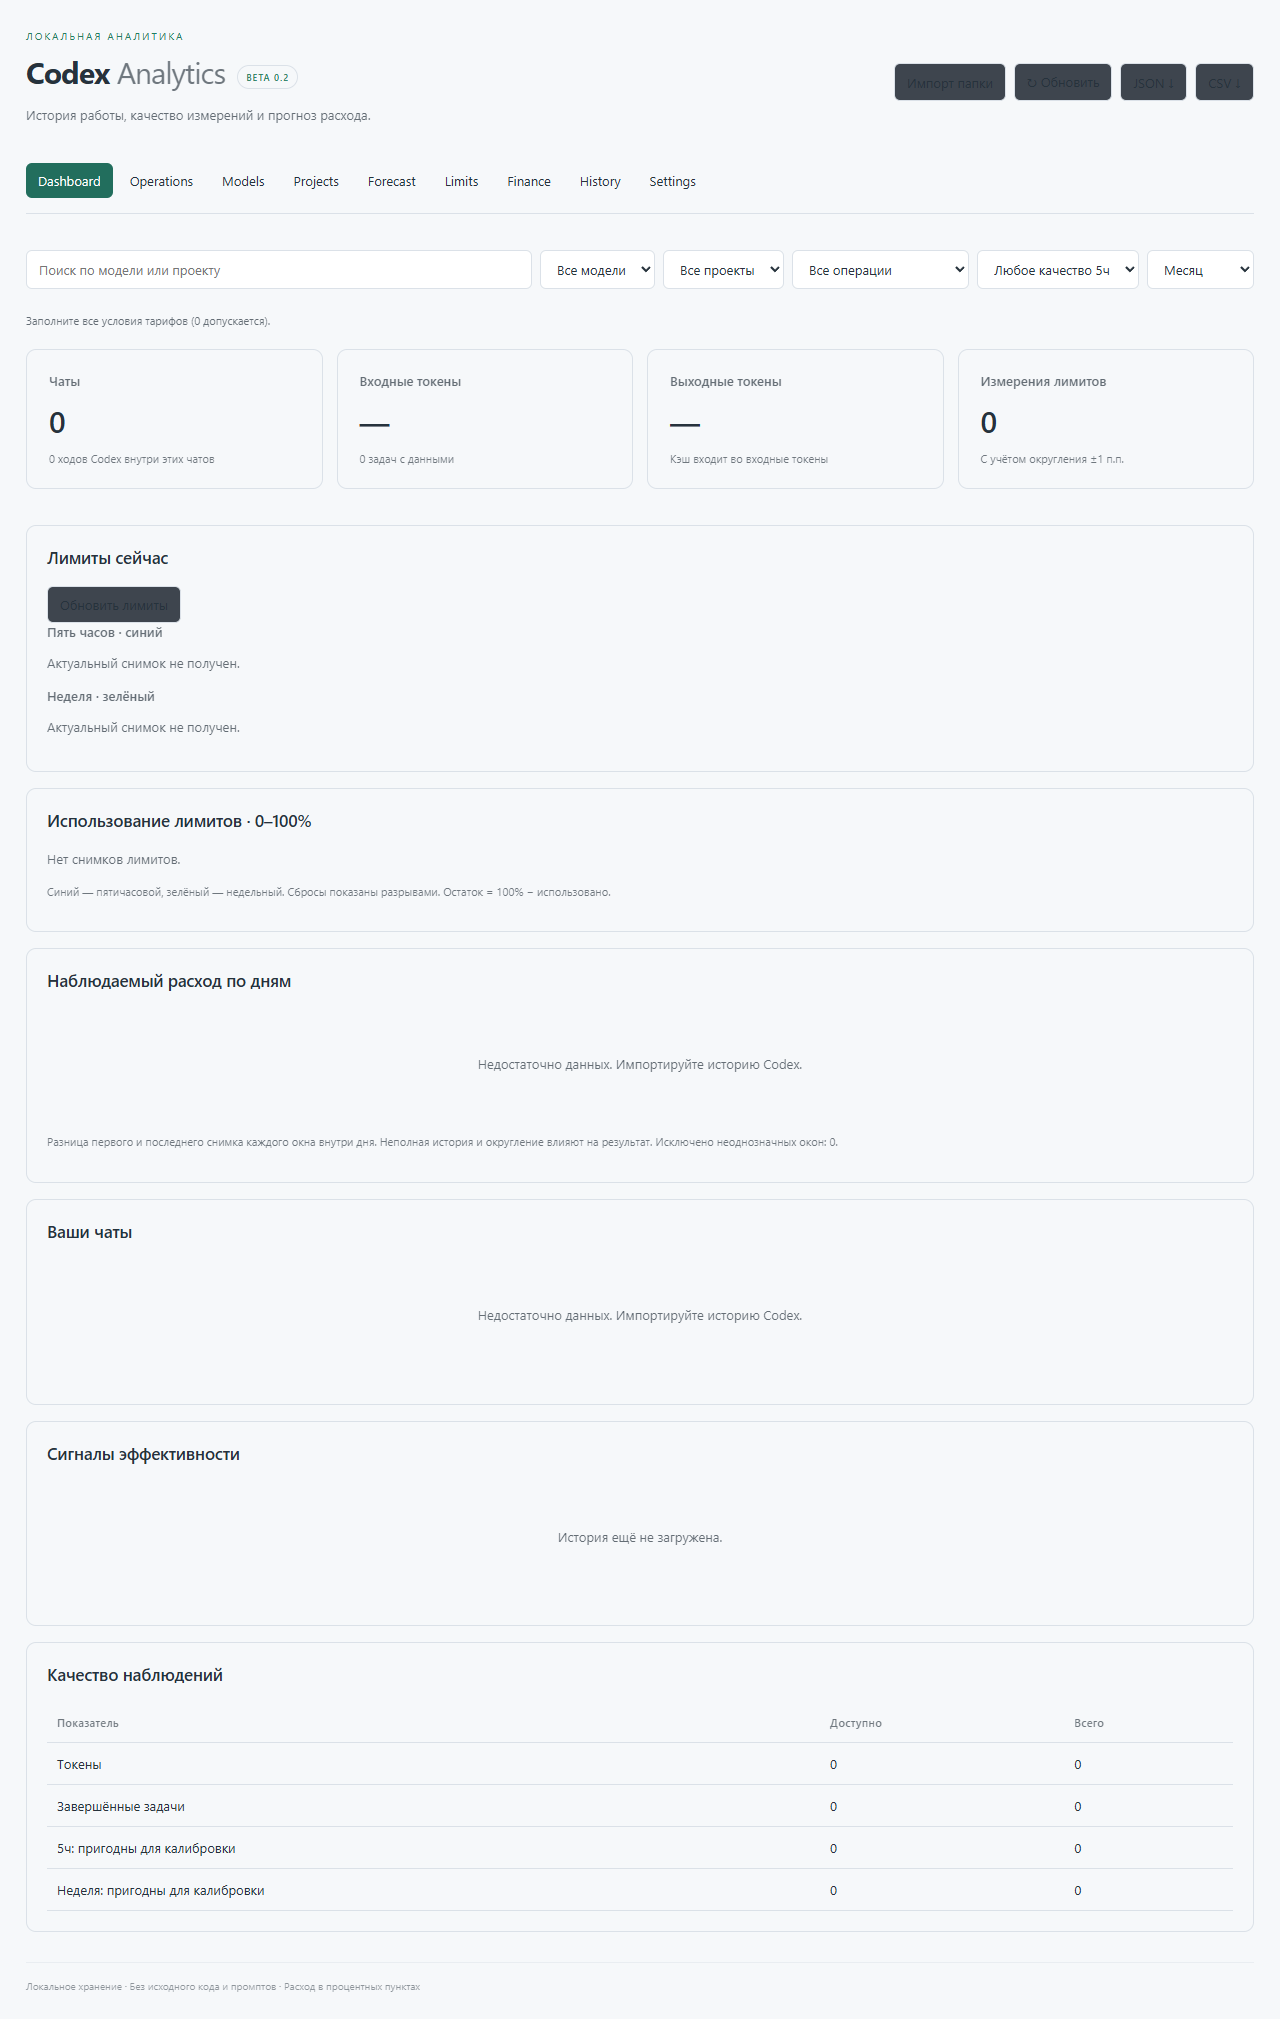
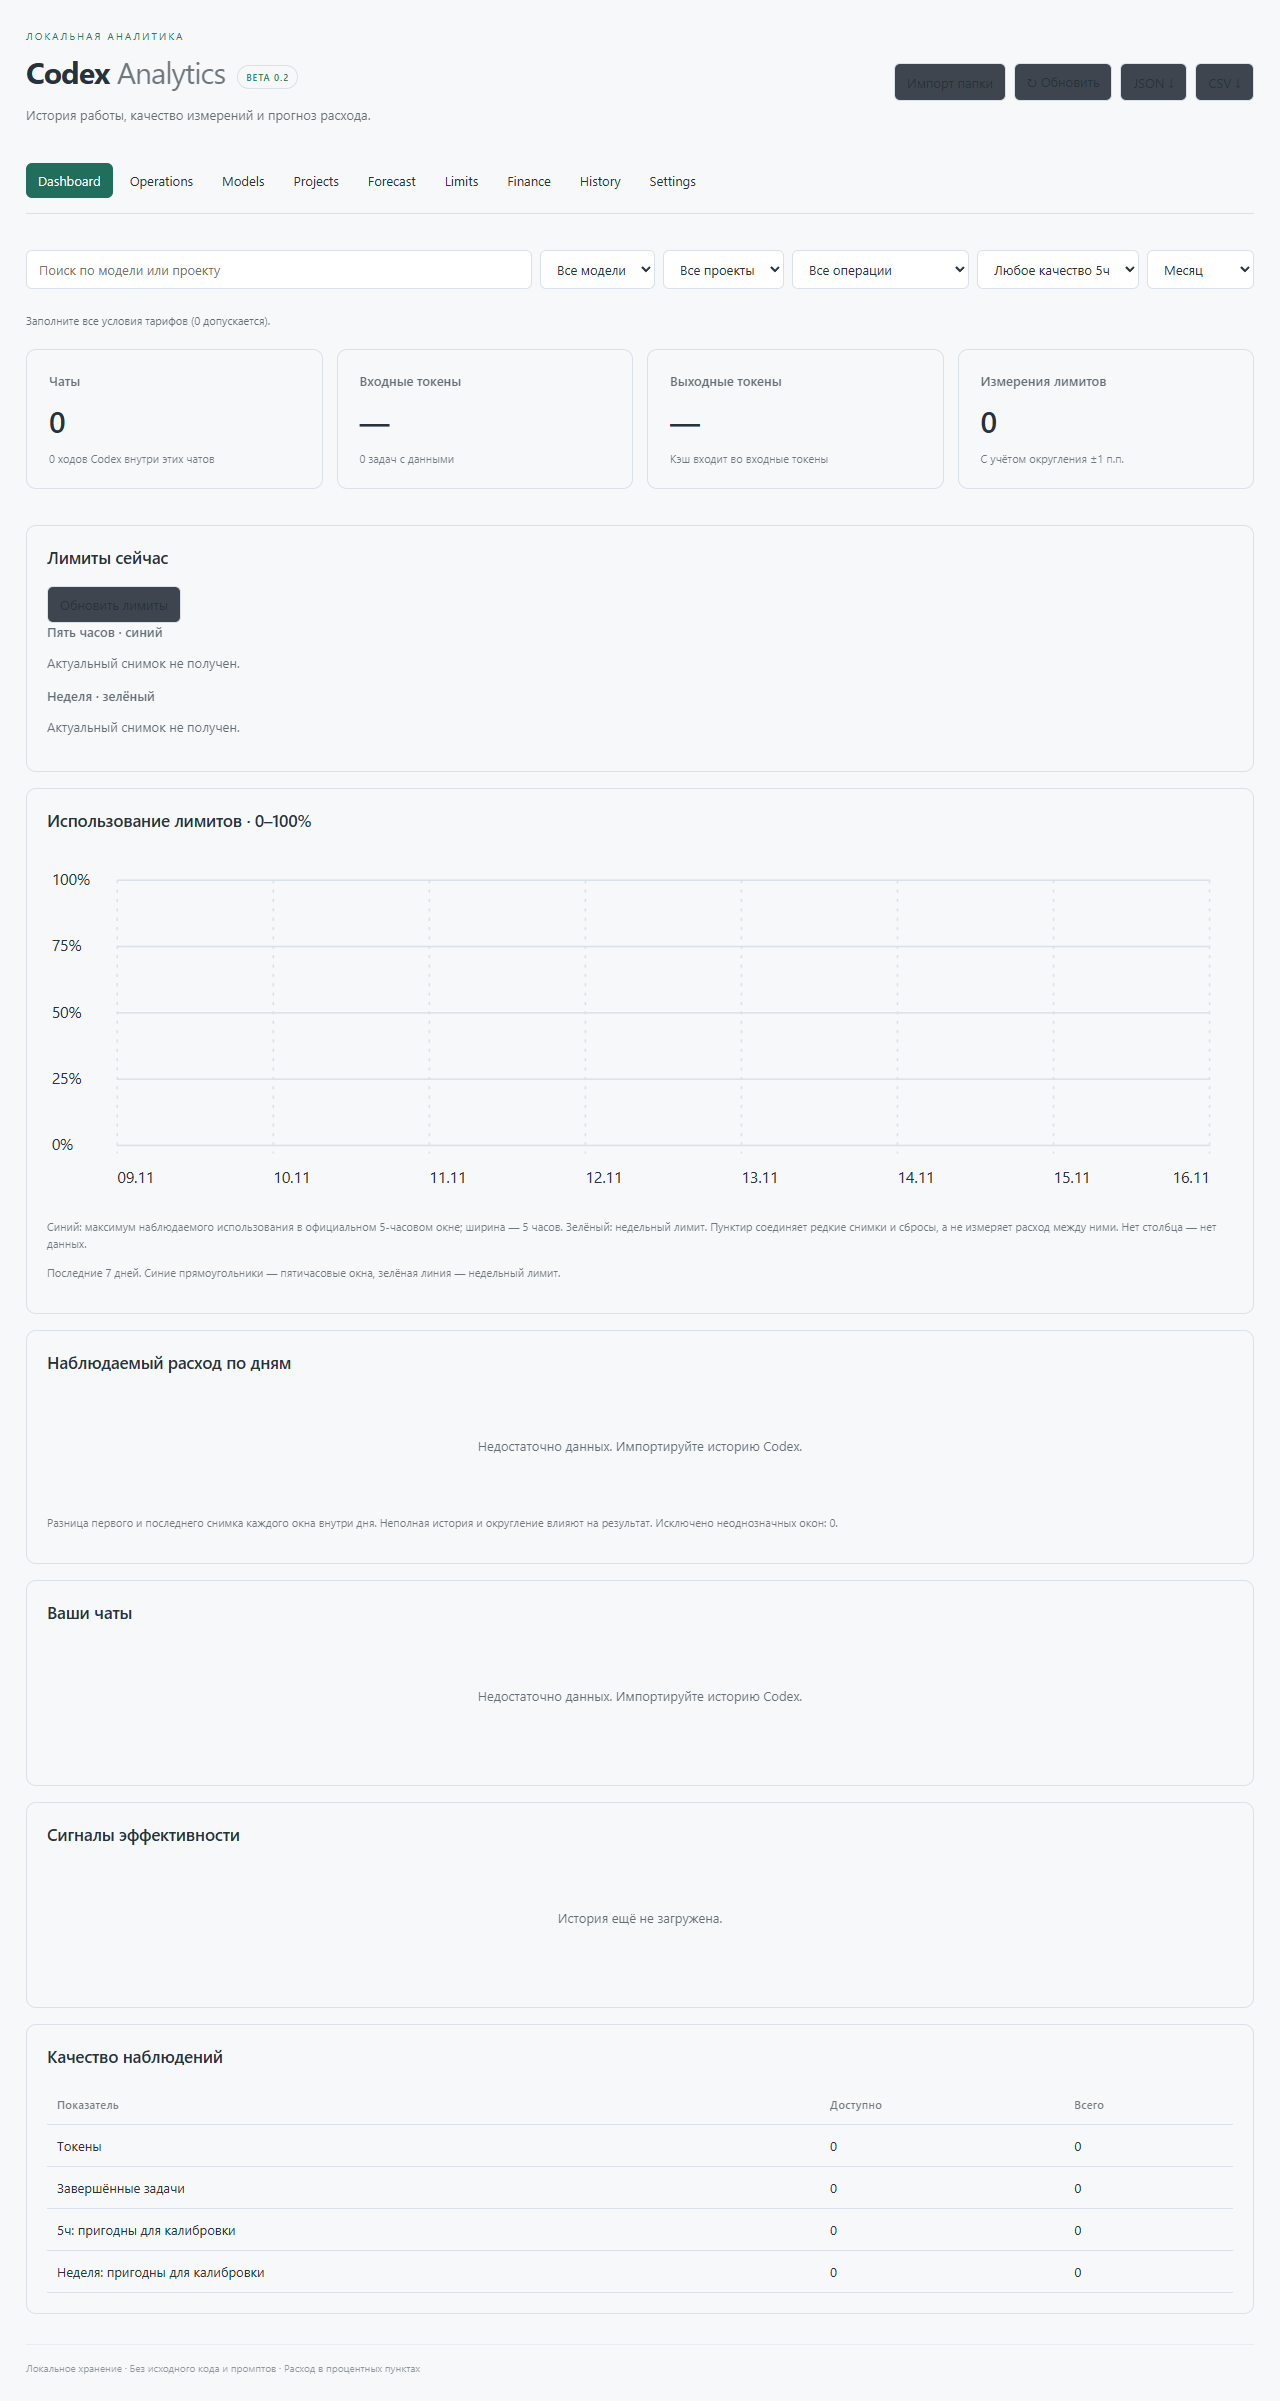
Show seven-day quota chart with five-hour bars

diff --git a/media/app.js b/media/app.js
@@ -17,7 +17,7 @@ function select(parent,title,items){const label=el('label',title),s=el('select')
 function render(){const root=$('main');root.replaceChildren();$('nav').replaceChildren(...sections.map(s=>{const b=button(s,()=>{section=s;render();});if(s===section)b.className='active';return b;}));const a=filtered();
  if(section==='Dashboard'){
   cards([['Чаты',fmt(new Set(a.map(t=>t.session)).size),`${a.length} ходов Codex внутри этих чатов`],['Входные токены',fmt(a.some(t=>t.tokens)?a.reduce((s,t)=>s+(t.tokens?.input??0),0):undefined),`${a.filter(t=>t.tokens).length} задач с данными`],['Выходные токены',fmt(a.some(t=>t.tokens)?a.reduce((s,t)=>s+(t.tokens?.output??0),0):undefined),'Кэш входит во входные токены'],['Измерения лимитов',fmt(a.filter(t=>t.five?.quality==='bounded').length),'С учётом округления ±1 п.п.']]);
-  const limitsPanel=panel('Лимиты сейчас');limitsPanel.append(button('Обновить лимиты',()=>send('limits')));const fresh=live?.limits&&Date.now()-live.limits.at<300000;for(const [key,title] of [['five','Пять часов · синий'],['week','Неделя · зелёный']]){const w=live?.limits?.[key];limitsPanel.append(el('h3',title),el('p',fresh&&w&&w.reset*1000>Date.now()?fmt(w.used)+'% использовано · '+fmt(100-w.used)+'% осталось · Сброс: '+new Date(w.reset*1000).toLocaleString():'Актуальный снимок не получен.'));}const samples=a.flatMap(t=>[t.before,t.after].filter(Boolean));if(live?.limits)samples.push(live.limits);const p=panel('Использование лимитов · 0–100%');quotaChart(p,samples);p.append(el('p','Синий — пятичасовой, зелёный — недельный. Сбросы показаны разрывами. Остаток = 100% − использовано.','hint'));dailyUsage(panel('Наблюдаемый расход по дням'),samples);const chats=panel('Ваши чаты');const groups=new Map();a.forEach(t=>{if(!groups.has(t.session))groups.set(t.session,[]);groups.get(t.session).push(t);});table(chats,['Название','Ходов Codex'],[...groups.values()].map(v=>[v.find(t=>t.title)?.title||'Чат '+v[0].session.slice(0,8),v.length]));
+  const limitsPanel=panel('Лимиты сейчас');limitsPanel.append(button('Обновить лимиты',()=>send('limits')));const fresh=live?.limits&&Date.now()-live.limits.at<300000;for(const [key,title] of [['five','Пять часов · синий'],['week','Неделя · зелёный']]){const w=live?.limits?.[key];limitsPanel.append(el('h3',title),el('p',fresh&&w&&w.reset*1000>Date.now()?fmt(w.used)+'% использовано · '+fmt(100-w.used)+'% осталось · Сброс: '+new Date(w.reset*1000).toLocaleString():'Актуальный снимок не получен.'));}const samples=a.flatMap(t=>[t.before,t.after].filter(Boolean));if(live?.limits)samples.push(live.limits);const p=panel('Использование лимитов · 0–100%');quotaChart(p,samples);p.append(el('p','Последние 7 дней. Синие прямоугольники — пятичасовые окна, зелёная линия — недельный лимит.','hint'));dailyUsage(panel('Наблюдаемый расход по дням'),samples);const chats=panel('Ваши чаты');const groups=new Map();a.forEach(t=>{if(!groups.has(t.session))groups.set(t.session,[]);groups.get(t.session).push(t);});table(chats,['Название','Ходов Codex'],[...groups.values()].map(v=>[v.find(t=>t.title)?.title||'Чат '+v[0].session.slice(0,8),v.length]));
   const n=panel('Сигналы эффективности');const rows=a.flatMap(t=>{const r=[];if(t.repeatedReads)r.push([t.id.slice(-16),`Повторных чтений: ${t.repeatedReads}`]);if(t.repeatedTests)r.push([t.id.slice(-16),`Повторных тестов: ${t.repeatedTests}`]);if(t.failures>=3)r.push([t.id.slice(-16),`Неудачных вызовов: ${t.failures}`]);return r;});if(rows.length)table(n,['Задача','Наблюдение'],rows);else n.append(el('p',a.length?'В выбранных задачах повторных действий и частых ошибок не обнаружено.':'История ещё не загружена.','empty'));const quality=panel('Качество наблюдений');table(quality,['Показатель','Доступно','Всего'],[['Токены',a.filter(t=>t.tokens).length,a.length],['Завершённые задачи',a.filter(t=>t.complete).length,a.length],['5ч: пригодны для калибровки',a.filter(t=>t.five?.quality==='bounded').length,a.length],['Неделя: пригодны для калибровки',a.filter(t=>t.week?.quality==='bounded').length,a.length]]);
  }else if(['Models','Projects','Operations'].includes(section)){
   const key=section==='Models'?'model':section==='Projects'?'project':'categories';const groups=new Map();a.forEach(t=>{const k=key==='categories'?(t.categories.length===1?(labels[t.categories[0]]??t.categories[0]):'Смешанная / не определена'):t[key];if(!groups.has(k))groups.set(k,[]);groups.get(k).push(t);});
@@ -53,7 +53,19 @@ function chart(p,a){
  data.forEach(([day,n],i)=>{const x=38+i*width;const r=shape('rect',{x,y:155-n/max*130,width:Math.max(2,width-7),height:n/max*130,rx:3,fill:'var(--vscode-charts-green,#69d7ad)'});const title=document.createElementNS(ns,'title');title.textContent=day+': '+n+' задач';r.append(title);if(i%Math.max(1,Math.ceil(data.length/7))===0)shape('text',{x:x+width/2,y:177,fill:'currentColor','font-size':10,'text-anchor':'middle'},day.slice(5).split('-').reverse().join('.'));});
  const wrap=el('div',undefined,'chart');wrap.append(svg);p.append(wrap);
 }
-function quotaChart(p,samples){const unique=[...new Map(samples.map(s=>[s.at,s])).values()].sort((a,b)=>a.at-b.at);if(!unique.length){p.append(el('p','Нет снимков лимитов.'));return;}const ns='http://www.w3.org/2000/svg',svg=document.createElementNS(ns,'svg');svg.setAttribute('viewBox','0 0 620 150');svg.setAttribute('role','img');svg.setAttribute('aria-label','Расход пятичасового и недельного лимитов');for(const percent of [0,25,50,75,100]){const y=140-percent*1.3;const label=document.createElementNS(ns,'text');label.setAttribute('x','0');label.setAttribute('y',String(y+3));label.setAttribute('fill','currentColor');label.setAttribute('font-size','9');label.textContent=percent+'%';svg.append(label);const grid=document.createElementNS(ns,'line');for(const [k,v] of Object.entries({x1:35,x2:615,y1:y,y2:y,stroke:'var(--vscode-panel-border,#303945)'}))grid.setAttribute(k,String(v));svg.append(grid);}const start=unique[0].at,range=Math.max(1,unique.at(-1).at-start);for(const [key,color] of [['five','#4c9aff'],['week','#69d7ad']]){let prev;for(const s of unique){const w=s[key];if(!w){prev=undefined;continue;}const x=(s.at-start)/range*570+40,y=140-w.used*1.3;if(prev&&prev.reset===w.reset&&prev.bucket===w.bucket&&w.used>=prev.used){const line=document.createElementNS(ns,'line');Object.entries({x1:prev.x,y1:prev.y,x2:x,y2:y,stroke:color,'stroke-width':2}).forEach(([k,v])=>line.setAttribute(k,String(v)));svg.append(line);}const c=document.createElementNS(ns,'circle');c.setAttribute('cx',x);c.setAttribute('cy',y);c.setAttribute('r','3');c.setAttribute('fill',color);const title=document.createElementNS(ns,'title');title.textContent=`${key==='five'?'Пять часов':'Неделя'}: ${w.used}% использовано, ${100-w.used}% осталось · ${new Date(s.at).toLocaleString()}`;c.append(title);svg.append(c);prev={x,y,reset:w.reset,bucket:w.bucket,used:w.used};}}const wrap=el('div',undefined,'chart');wrap.append(svg);p.append(wrap);}
+function quotaChart(p,samples){
+ const end=Date.now(),start=end-7*86400000,hour=3600000,ns='http://www.w3.org/2000/svg';
+ const sorted=[...new Map(samples.filter(s=>Number.isFinite(s.at)&&s.at<=end).map(s=>[s.at,s])).values()].sort((a,b)=>a.at-b.at);
+ const svg=document.createElementNS(ns,'svg');svg.setAttribute('viewBox','0 0 760 230');svg.setAttribute('role','img');svg.setAttribute('aria-label','Семь дней: синие пятичасовые окна и непрерывная зелёная линия недельного лимита');
+ const draw=(tag,attrs,title)=>{const e=document.createElementNS(ns,tag);for(const [k,v] of Object.entries(attrs))e.setAttribute(k,String(v));if(title){const t=document.createElementNS(ns,'title');t.textContent=title;e.append(t);}svg.append(e);return e;};
+ const x=at=>45+(Math.max(start,Math.min(end,at))-start)/(end-start)*700,y=used=>190-Math.max(0,Math.min(100,used))*1.7;
+ for(const percent of [0,25,50,75,100]){draw('line',{x1:45,x2:745,y1:y(percent),y2:y(percent),stroke:'var(--vscode-panel-border,#303945)'});const t=draw('text',{x:3,y:y(percent)+3,fill:'currentColor','font-size':10});t.textContent=percent+'%';}
+ const windows=new Map();for(const s of sorted){const w=s.five;if(w&&w.minutes===300&&w.reset*1000>start&&w.reset*1000-5*hour<end){const id=w.bucket+':'+w.reset;const old=windows.get(id);if(!old||w.used>old.used)windows.set(id,{...w,at:s.at});}}
+ for(const w of windows.values()){const left=x(w.reset*1000-5*hour),right=x(w.reset*1000);draw('rect',{x:left+1,y:y(w.used),width:Math.max(1,right-left-2),height:190-y(w.used),fill:'#4c9aff','fill-opacity':.65},'Пятичасовое окно: '+new Date(w.reset*1000-5*hour).toLocaleString()+' — '+new Date(w.reset*1000).toLocaleString()+' · Максимальное наблюдаемое использование '+fmt(w.used)+'%');}
+ const weekly=sorted.filter(s=>s.week);let prev;for(const sample of weekly){if(sample.at<start){prev=sample;continue;}const w=sample.week;if(prev){const unknown=sample.at-prev.at>10*60000||prev.week.reset!==w.reset||prev.week.bucket!==w.bucket;draw('line',{x1:x(prev.at),y1:y(prev.week.used),x2:x(sample.at),y2:y(w.used),stroke:'#69d7ad','stroke-width':2.5,...(unknown?{'stroke-dasharray':'5 4'}:{})});}draw('circle',{cx:x(sample.at),cy:y(w.used),r:2.5,fill:'#69d7ad'},new Date(sample.at).toLocaleString()+': '+fmt(w.used)+'% недельного лимита');prev=sample;}
+ for(let i=0;i<=7;i++){const at=start+i*86400000;draw('line',{x1:x(at),x2:x(at),y1:20,y2:195,stroke:'var(--vscode-panel-border,#303945)','stroke-dasharray':'2 4'});const t=draw('text',{x:x(at),y:214,fill:'currentColor','font-size':10,'text-anchor':i===7?'end':'start'});t.textContent=new Date(at).toLocaleDateString(undefined,{day:'2-digit',month:'2-digit'});}
+ const wrap=el('div',undefined,'quota-chart');wrap.append(svg);p.append(wrap,el('p','Синий: максимум наблюдаемого использования в официальном 5-часовом окне; ширина — 5 часов. Зелёный: недельный лимит. Пунктир соединяет редкие снимки и сбросы, а не измеряет расход между ними. Нет столбца — нет данных.','hint'));
+}
 window.addEventListener('message',({data:m})=>{if(m.type==='data'){tasks=m.tasks;$('status').textContent=m.status;for(const [id,key,label] of [['model','model','Все модели'],['project','project','Все проекты']]){const s=$(id),v=restoreLists?(saved.filters?.[id]||s.value):s.value;s.replaceChildren();const o=el('option',label);o.value='';s.append(o);[...new Set(tasks.map(t=>t[key]))].sort().forEach(x=>{const o=el('option',x);o.value=x;s.append(o);});s.value=v;}render();dataLoaded=true;restoreLists=false;}if(m.type==='limits'){live=m.value;$('status').textContent='Лимиты обновлены';render();}if(m.type==='error'){$('status').textContent=m.message;$('status').className='error';}if(m.type==='forecast'&&section==='Forecast'&&$('result')){const r=$('result');r.replaceChildren();table(r,['Показатель','n','Медиана','P10–P90','Поместится','Похожих задач'],Object.entries(m.value).filter(([k])=>!['notes','validation'].includes(k)).map(([k,v])=>[k,v.n,v.median===undefined?v.status:fmt(v.median),v.interval?.map(fmt).join(' – ')??'—',v.fit===undefined?'—':`${fmt(v.fit*100)}%${v.fitInterval?' ('+v.fitInterval.map(x=>fmt(x*100)).join('–')+'%)':''}`,fmt(v.tasks)]));if(m.value.validation){r.append(el('h3','Проверка на более поздних задачах'));table(r,['Лимит','Проверено','Средняя ошибка, п.п.','Попадание в диапазон'],Object.entries(m.value.validation).map(([key,v])=>[key,v.n,fmt(v.mae),v.coverage===undefined?'—':fmt(v.coverage*100)+'%']));}m.value.notes.forEach(n=>r.append(el('p',n,'hint')));}if(m.type==='finance'&&section==='Finance'&&$('result')){$('result').replaceChildren();table($('result'),['Сценарий','Месячная стоимость'],m.value.map(p=>[p.name,fmt(p.total)]));}});
 Object.entries(labels).forEach(([value,label])=>{const o=el('option',label);o.value=value;$('category').append(o);});Object.entries(saved.filters||{}).forEach(([id,value])=>{if($(id))$(id).value=value;});['search','model','project','period','category','quality'].forEach(id=>$(id).addEventListener('input',render));$('refresh').onclick=()=>send('refresh');$('importFolder').onclick=()=>send('importFolder');$('json').onclick=()=>send('export',{format:'json',ids:filtered().map(t=>t.id)});$('csv').onclick=()=>send('export',{format:'csv',ids:filtered().map(t=>t.id)});render();send('ready');send('limits');
 

diff --git a/media/style.css b/media/style.css
@@ -4,3 +4,5 @@
 h1 small{display:inline-block;vertical-align:middle;font-size:9px;letter-spacing:1px;font-weight:500;margin-left:12px;padding:5px 8px;border:1px solid var(--vscode-panel-border,#303945);border-radius:20px;color:var(--vscode-charts-green,#69d7ad)}
 .card{background:var(--vscode-sideBar-background,var(--vscode-editor-background,#10151c));padding:22px}.card .value{font-variant-numeric:tabular-nums;font-size:30px}.panel h2{font-size:17px;font-weight:600;letter-spacing:-.2px}.toolbar{padding:12px 0}.chart{height:190px}th{letter-spacing:.25px}tbody tr:hover{background:var(--vscode-list-hoverBackground,#ffffff08)}#status{font-size:11px;font-variant-numeric:tabular-nums}button{transition:background .12s ease}.actions p{margin:0;padding:8px;align-self:center}footer{border-top:1px solid var(--vscode-panel-border,#303945);padding-top:16px}
 @media(max-width:650px){header{display:block}header .actions{margin-top:15px}h1{font-size:26px}h1 small{font-size:8px;margin-left:8px}.cards{gap:8px}.card{padding:14px}.card .value{font-size:23px}.panel{padding:15px}nav button{font-size:12px;padding:8px}}
+
+.quota-chart{width:100%;overflow-x:auto}.quota-chart svg{display:block;width:100%;min-width:600px;height:auto}
